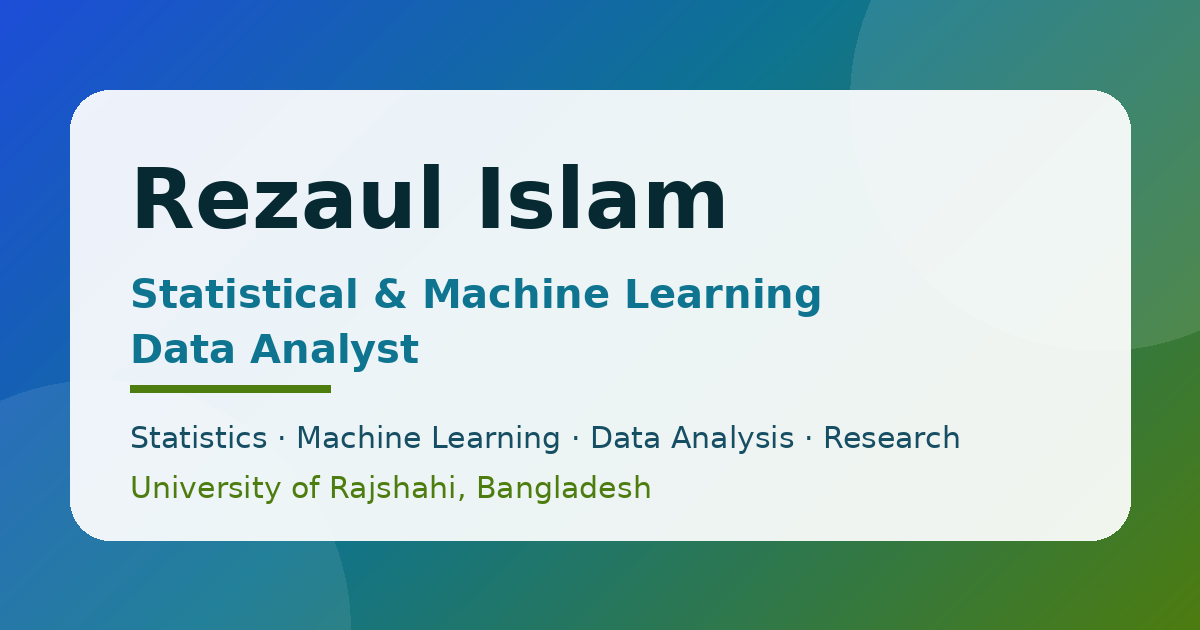
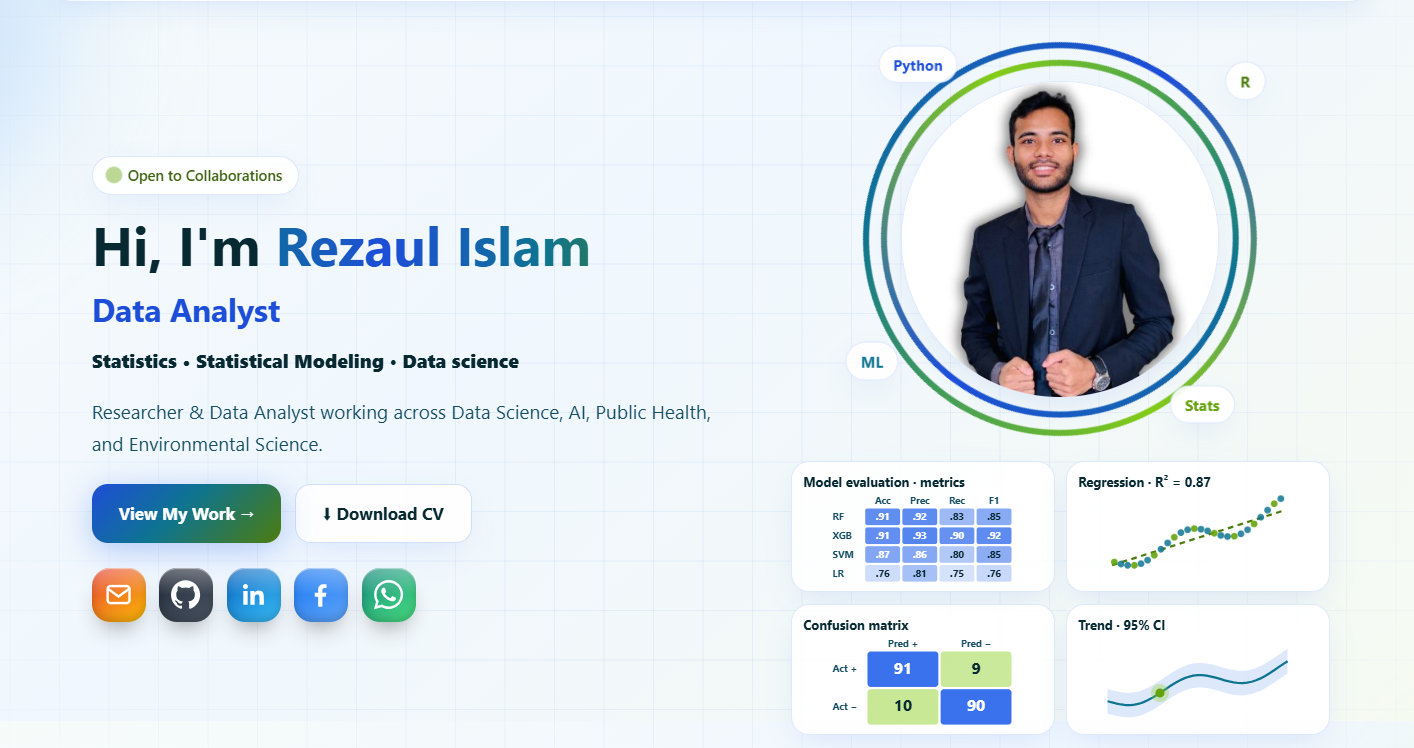
Add files via upload

diff --git a/index.html b/index.html
@@ -14,14 +14,14 @@
 <link rel="canonical" href="https://rezaul61.github.io/Rezaul_Portfolio/">
 <meta property="og:url" content="https://rezaul61.github.io/Rezaul_Portfolio/">
 <meta property="og:site_name" content="Rezaul Islam">
-<meta property="og:image" content="https://rezaul61.github.io/Rezaul_Portfolio/og-image.png">
+<meta property="og:image" content="https://rezaul61.github.io/Rezaul_Portfolio/og-image.png?v=2">
 <meta property="og:image:width" content="1200">
 <meta property="og:image:height" content="630">
 <meta property="og:image:alt" content="Rezaul Islam — Statistical & Machine Learning Data Analyst">
 <meta name="twitter:card" content="summary_large_image">
 <meta name="twitter:title" content="Rezaul Islam — Statistical & Machine Learning Data Analyst">
 <meta name="twitter:description" content="Statistical modeling, machine learning, data visualization and research.">
-<meta name="twitter:image" content="https://rezaul61.github.io/Rezaul_Portfolio/og-image.png">
+<meta name="twitter:image" content="https://rezaul61.github.io/Rezaul_Portfolio/og-image.png?v=2">
 <style>
 :root{color-scheme:light;--n9:#072932;--n6:#164e63;--g:linear-gradient(135deg,#1D4ED8 0%,#0E7490 45%,#4D7C0F 100%);box-sizing:border-box;padding-top:env(safe-area-inset-top,0px);padding-bottom:env(safe-area-inset-bottom,0px)}
 *{box-sizing:border-box}
